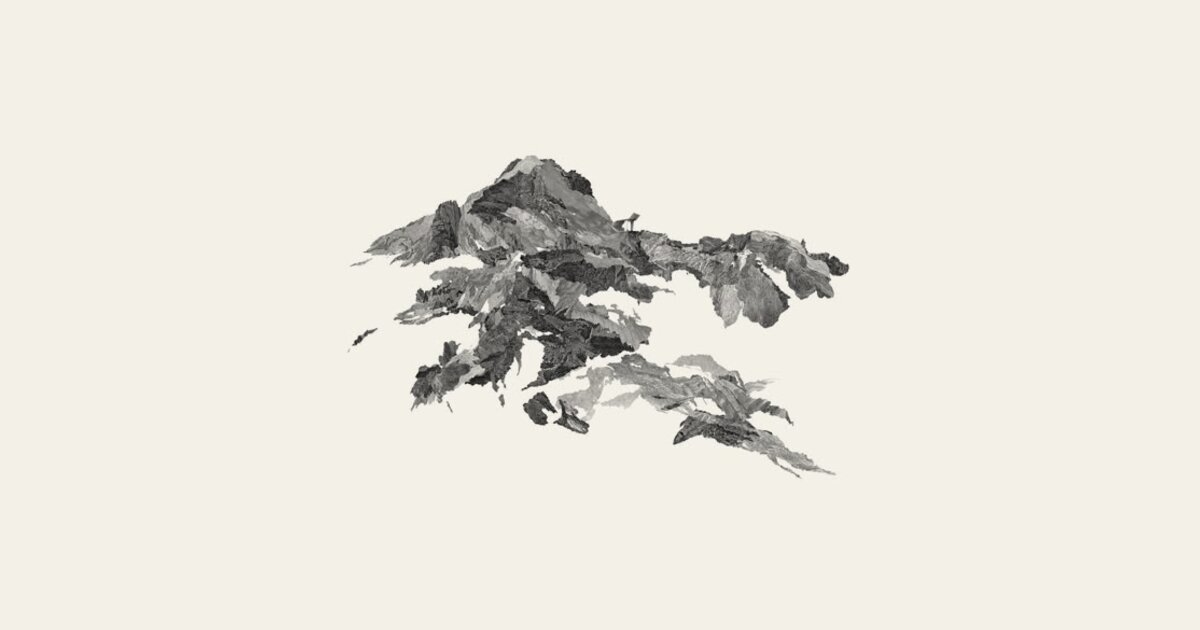
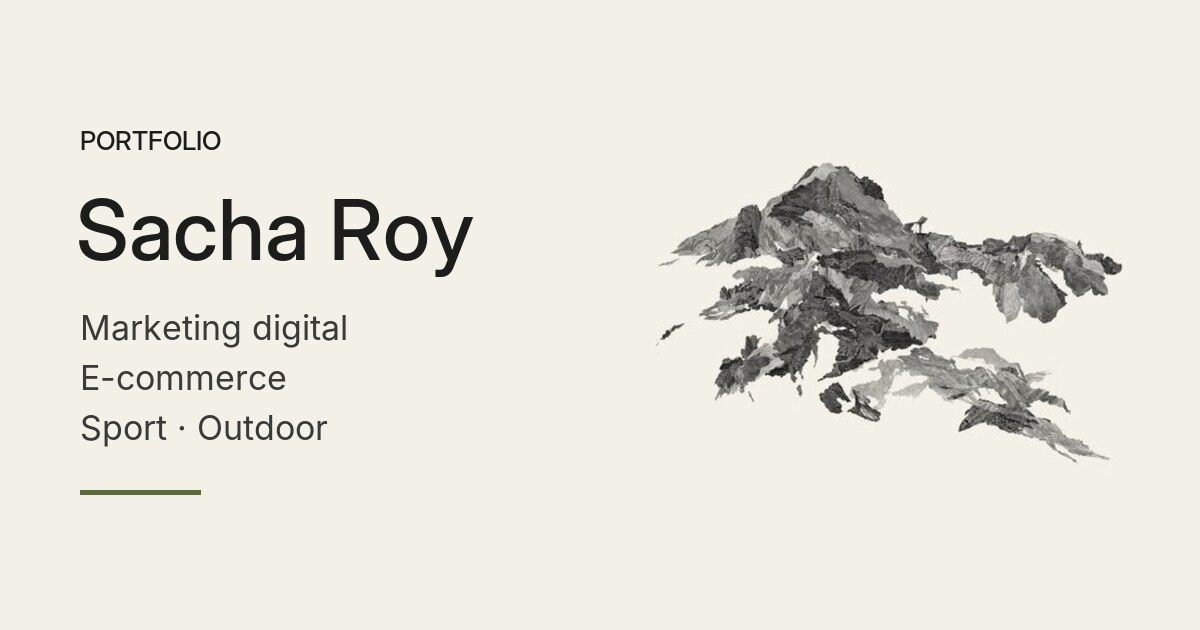
Aperçu de partage (LinkedIn) : image avec le nom et URL absolue
Claude-Session: https://claude.ai/code/session_01UhRAQS2ZtyjQ69WPNmfZBz

diff --git a/index.html b/index.html
@@ -18,8 +18,11 @@
     <meta property="og:type" content="website" />
     <meta property="og:locale" content="fr_FR" />
     <meta property="og:title" content="Sacha Roy — Marketing digital · E-commerce · Outdoor" />
-    <meta property="og:description" content="Portfolio et carnet de recherche : projets, moodboard, compétences et CV." />
-    <meta property="og:image" content="./images/og-image.jpg" />
+    <meta property="og:description" content="Étudiant en BUT TC (marketing digital, e-commerce). Projets, expérience chez Decathlon, carnet d’inspirations et CV. Recherche un stage d’avril à mai 2027." />
+    <meta property="og:url" content="https://sackroy7-png.github.io/portfolio/" />
+    <meta property="og:image" content="https://sackroy7-png.github.io/portfolio/images/og-image.jpg" />
+    <meta property="og:image:width" content="1200" />
+    <meta property="og:image:height" content="630" />
     <meta name="twitter:card" content="summary_large_image" />
   </head>
   <body>
